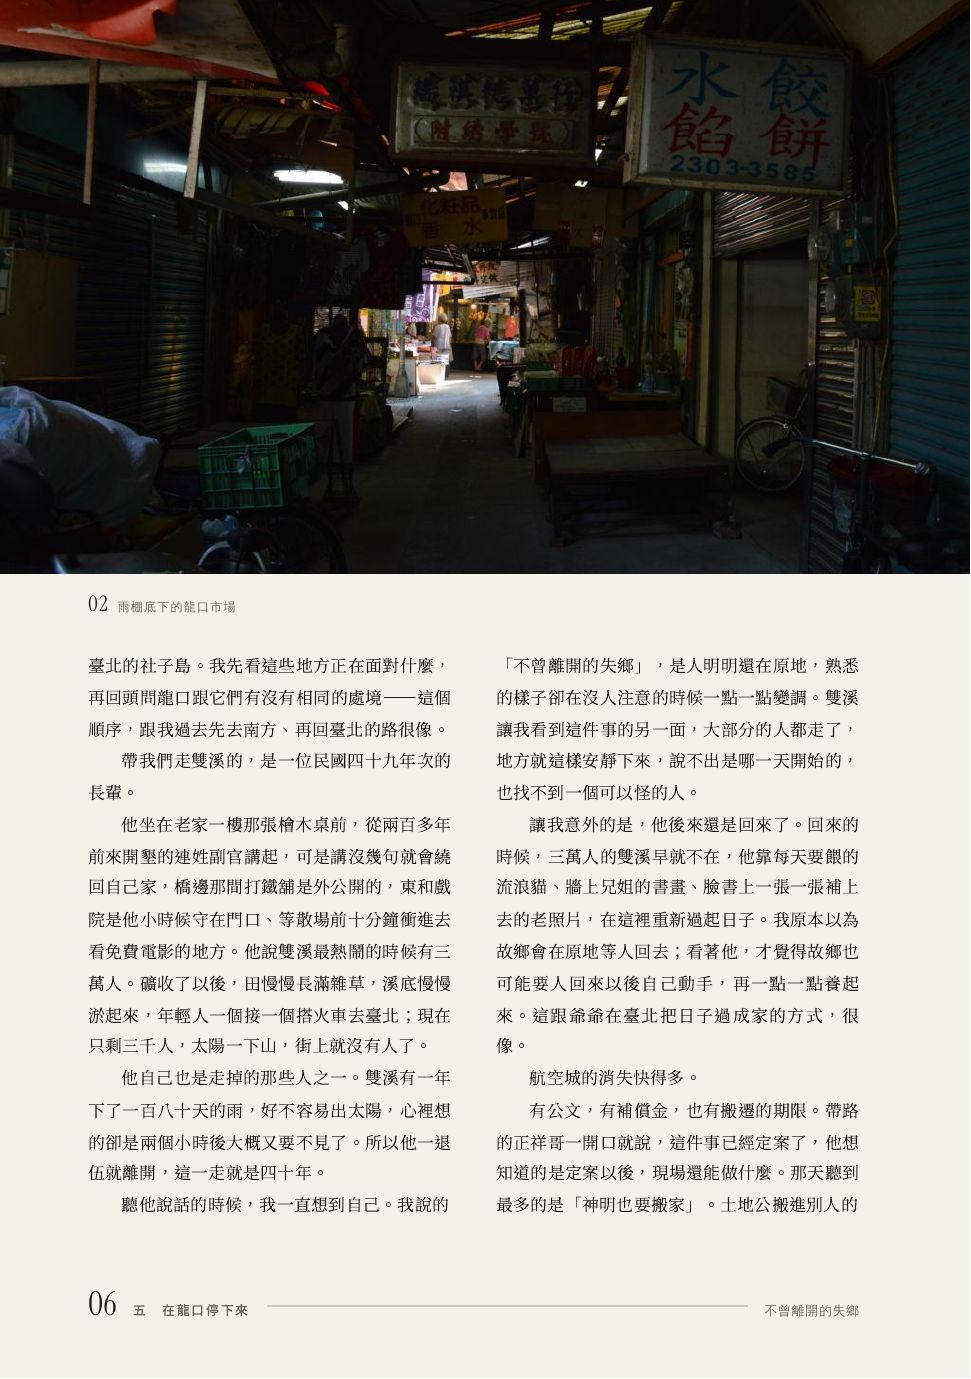
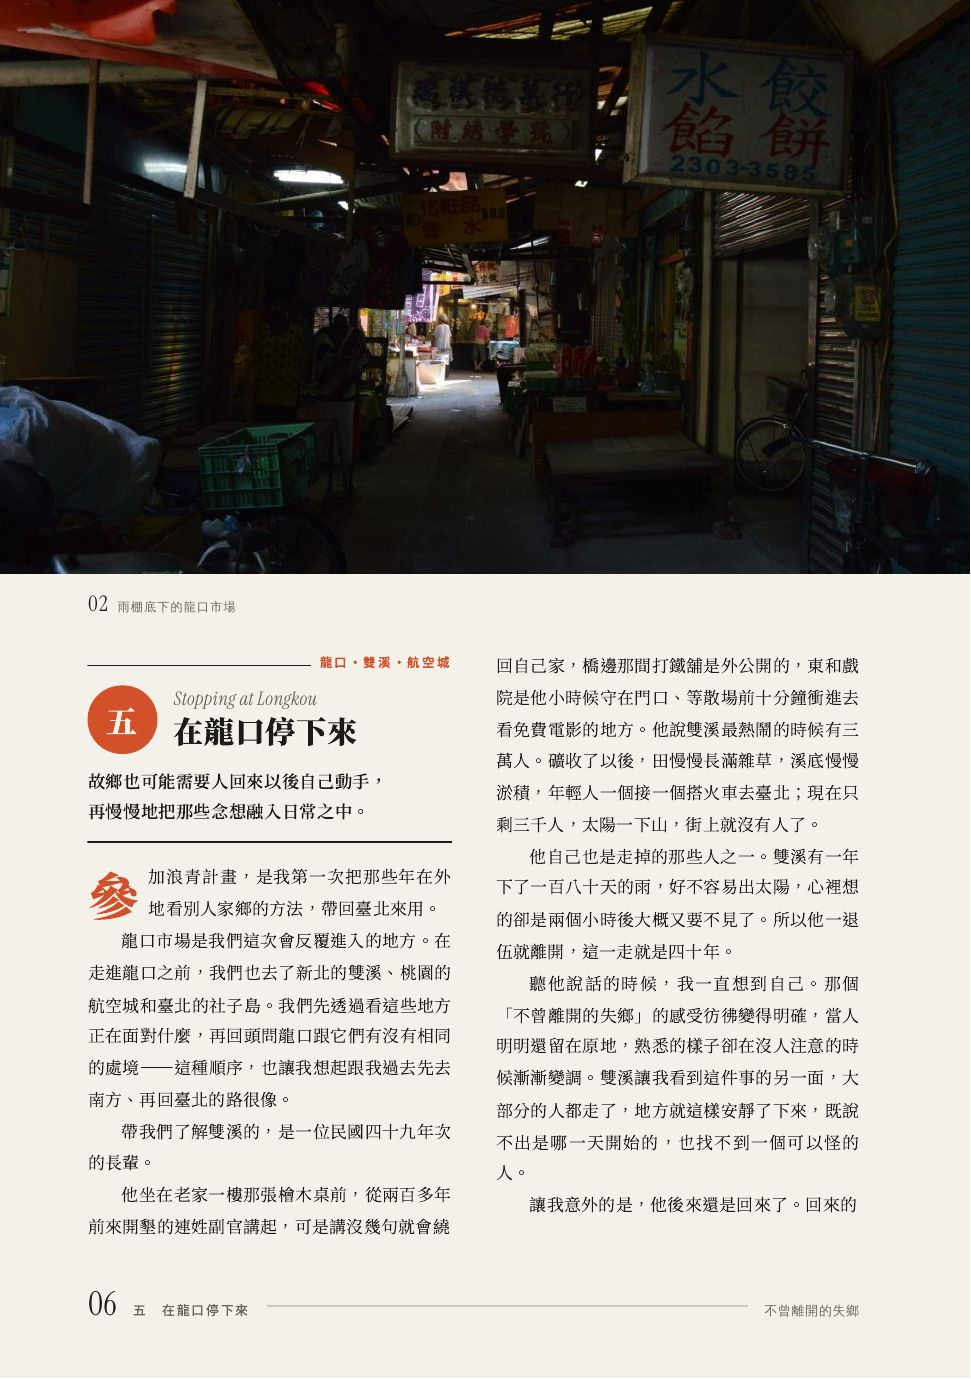
依 11/6 修改的文字更新內容
Claude-Session: https://claude.ai/code/session_01TUyoKLvkRiEEawHJLnsqr2

Changed region(s): [[0.4943, 0.4677, 0.896, 0.9043], [0.0927, 0.4677, 0.4634, 0.9043]]

diff --git a/index.html b/index.html
@@ -84,7 +84,7 @@ header .by { font-family: var(--hand); color: var(--muted); font-size: .9rem; le
 </div>
 <script>
 const P = ["pages/01.jpg", "pages/02.jpg", "pages/03.jpg", "pages/04.jpg", "pages/05.jpg", "pages/06.jpg", "pages/07.jpg", "pages/08.jpg", "pages/09.jpg", "pages/10.jpg", "pages/11.jpg", "pages/12.jpg", "pages/13.jpg", "pages/14.jpg", "pages/15.jpg", "pages/16.jpg"];
-const TOC = [["序", "序", 3], ["一", "戶口名簿上的一行字", 3], ["二", "別人眼中的老房子", 4], ["三", "只要離開臺北，哪裡都是南方", 4], ["四", "爺爺把日子過成了家", 5], ["五", "在龍口停下來", 5], ["六", "誰替地景說故事", 12], ["七", "還沒學會的鄉愁", 13]];
+const TOC = [["序", "序", 3], ["一", "戶口名簿上的一行字", 3], ["二", "別人眼中的老房子", 4], ["三", "只要離開臺北，哪裡都是南方", 4], ["四", "爺爺把日子過成了家", 5], ["五", "在龍口停下來", 6], ["六", "誰替地景說故事", 12], ["七", "還沒學會的鄉愁", 13]];
 const N = P.length;
 const spreadEl = document.getElementById('spread'), countEl = document.getElementById('count');
 const chipsEl = document.getElementById('chips');
